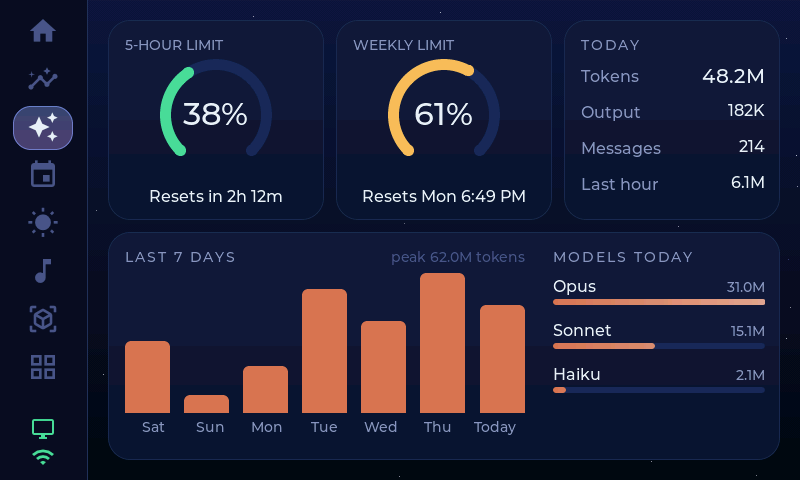
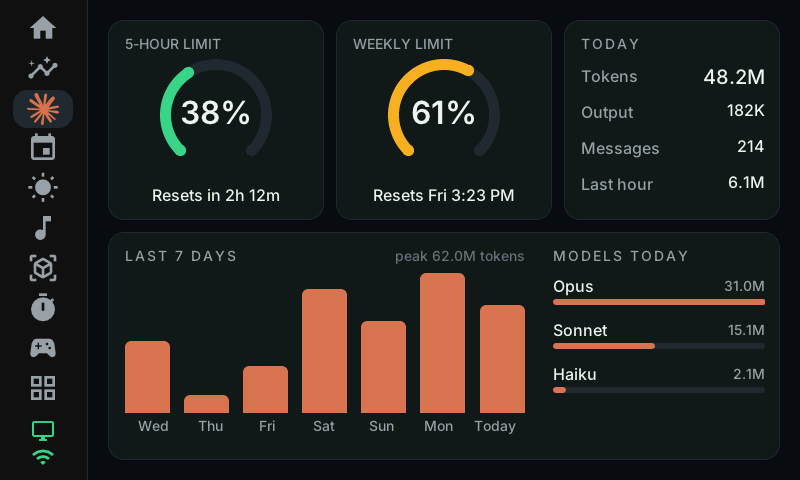
Graphite README screenshots; fit the Internet data-used amounts
Recapture every README screenshot in the Graphite theme with made-up demo
data (synthetic game covers and album art), and move the design item to
Done. On the Internet view, "This month" and amounts like "412.0 GB" ran
together; the amounts are now 20 px so both fit on one row.

diff --git a/firmware/main/ui_net.c b/firmware/main/ui_net.c
@@ -91,11 +91,12 @@ void net_page_create(lv_obj_t *page)
     // Label on the left, amount on the right, one row each.
     lv_obj_t *l = line(c, g_font_16, COL_MUTED, UI_COMPACT ? 28 : 34);
     lv_label_set_text(l, "Today");
-    s_today = line(c, g_font_24, COL_TEXT, UI_COMPACT ? 22 : 28);
+    // 20 px so "This month" and an amount like "412.0 GB" fit side by side.
+    s_today = line(c, g_font_20, COL_TEXT, UI_COMPACT ? 25 : 31);
     lv_obj_set_style_text_align(s_today, LV_TEXT_ALIGN_RIGHT, 0);
     l = line(c, g_font_16, COL_MUTED, UI_COMPACT ? 58 : 72);
     lv_label_set_text(l, "This month");
-    s_month = line(c, g_font_24, COL_TEXT, UI_COMPACT ? 52 : 66);
+    s_month = line(c, g_font_20, COL_TEXT, UI_COMPACT ? 55 : 69);
     lv_obj_set_style_text_align(s_month, LV_TEXT_ALIGN_RIGHT, 0);
 
     // Latency over the last two minutes.

diff --git a/ROADMAP.md b/ROADMAP.md
@@ -11,19 +11,13 @@ Ideas for Desk Hub, roughly in order of value. Each item notes how it would work
   - **Limits:** replying from the board isn't possible with this approach. Phone Link has no supported way for other apps to send messages, so replies stay on the phone or in Phone Link. iPhone support in Phone Link is more limited than Android.
   - **Alternative for Android:** the open KDE Connect protocol could give the companion texts, battery level and "find my phone" directly, without Phone Link. It's more work and Android-only.
 
-## Design
-
-- [ ] **A new, modern design language.** A deliberate visual system to replace today's midnight theme, which grew one screen at a time.
-  - **Define the foundations first:**
-    - colour tokens, with a dark theme and possibly a light one;
-    - a type scale (one family at fixed sizes via Tiny TTF);
-    - spacing and radius scales, and how surfaces get depth.
-  - **Build a small set of shared components on top:** card, chip, gauge, progress bar, list row, button, empty state.
-  - **Prototype in HTML first.** Mock up the screens at 800 × 480 on a PC so ideas can be compared quickly, then port the winner to LVGL.
-  - **Design for the hardware.** Full-screen redraws are limited by PSRAM bandwidth (about 150 ms), so flat surfaces and few overlapping layers are cheaper than gradients and transparency. Text must stay readable from arm's length, and colours need enough contrast on this panel.
-  - **Apply it everywhere:** every page, the Home widgets, the sidebar, alerts and empty states. Then refresh the README screenshots.
-
 ## Day-to-day polish
+
+- [ ] **Home as a 5 × 3 grid with sized widgets.** Replace today's two columns with a grid of 5 columns by 3 rows, so widgets fill the screen without odd gaps or squeezed cards.
+  - **Sizes per widget:** each widget lists the sizes it supports, such as 1×1, 2×1, 1×2 or 2×2, and lays itself out for each. For example, weather at 1×1 shows the temperature and icon, and at 2×1 adds high, low and conditions. The clock can be 2×1 or 3×1, and Up next 2×2 or 2×3.
+  - **Config:** `[home]` lists widgets with a position and size, for example `{ widget = "weather", x = 0, y = 0, w = 2, h = 1 }`. The companion checks for overlaps and unsupported sizes before sending.
+  - **Cell size:** computed from the space the navigation bar leaves (beside the rail or above the dock), with one gap value, so every widget lines up.
+  - **Setup and Configurator:** pick a widget, then a size from its list. The Configurator UI gets a drag-and-drop grid editor.
 
 - [ ] **Calendar dot on the sidebar.** When the calendar widget isn't on Home, a small dot on the sidebar's Calendar tab shows that there's an event coming up, like the dot the AI tab gets for waiting alerts.
   - **When:** an event today that hasn't ended yet (all-day events included). The dot goes away once the day's events are over.
@@ -75,7 +69,7 @@ Ideas for Desk Hub, roughly in order of value. Each item notes how it would work
 
 ## Done
 
-- [x] Midnight theme, sidebar navigation, configurable pages and Home widgets, slim top bar
+- [x] Sidebar navigation, configurable pages and Home widgets, slim top bar
 - [x] PC stats, media, weather, Google/Apple/ICS calendars, shortcuts
 - [x] Claude Code usage with live limits, the Claude logo on Home and in the sidebar
 - [x] Bambu Lab printers (cloud and local), including dual-nozzle models
@@ -88,3 +82,4 @@ Ideas for Desk Hub, roughly in order of value. Each item notes how it would work
 - [x] Steam extras with your own Web API key: friends in game and total playtime for every game
 - [x] Internet stats: a Network page and Home widget with latency, jitter, loss, outages, data used and a Cloudflare speed test
 - [x] The board sleeps with the PC: when Windows turns the monitor off, the board goes dark or shows a clock screensaver
+- [x] Graphite design: flat near-black cards, an amber accent, cool data colours and the Inter font, on every page

diff --git a/README.md b/README.md
@@ -448,7 +448,7 @@ Planned features are listed in [ROADMAP.md](ROADMAP.md).
 ## Credits
 
 - [LVGL](https://lvgl.io) (MIT) and [ESP-IDF](https://github.com/espressif/esp-idf) (Apache 2.0).
-- [Montserrat](https://github.com/JulietaUla/Montserrat) (SIL OFL 1.1) and [Material Icons](https://github.com/google/material-design-icons) (Apache 2.0). See `firmware/main/fonts/`.
+- [Inter](https://github.com/rsms/inter) (SIL OFL 1.1), with LVGL's built-in Montserrat as a fallback, and [Material Icons](https://github.com/google/material-design-icons) (Apache 2.0). See `firmware/main/fonts/`.
 - Weather and city search by [Open-Meteo](https://open-meteo.com) (CC BY 4.0).
 - The Claude logo is a trademark of Anthropic and is shown only to label Claude Code usage. `firmware/tools/make_logos.py` generates it from the SVG; other agents' logos can be added there.
 - Inspired by [ClawPal](https://github.com/Kaayoos/ClawPal). No ClawPal code is used.
